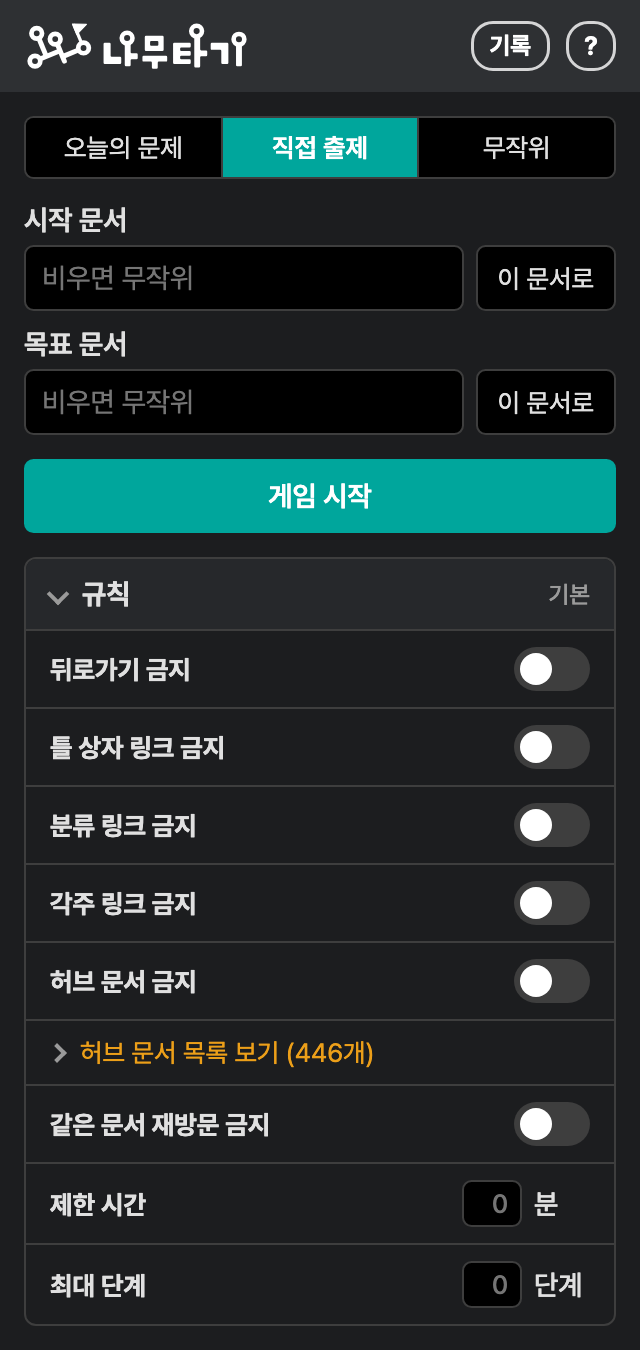
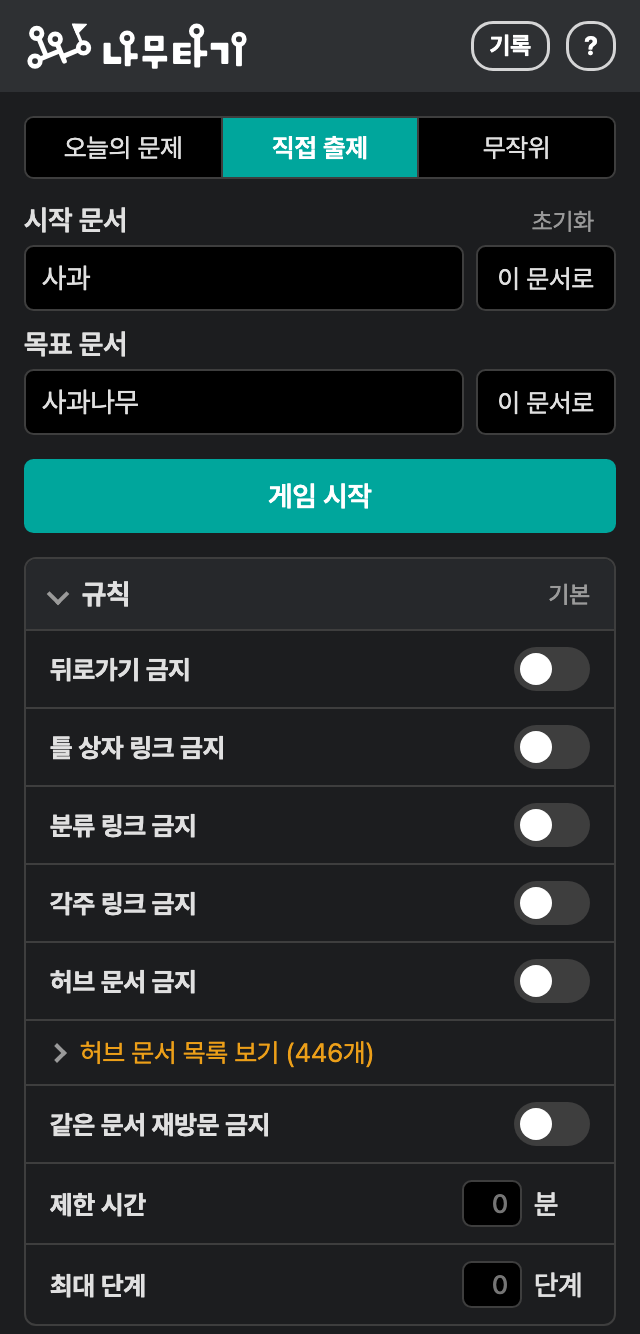
우클릭 메뉴로 시작과 목표 정하기, 직접 출제 입력 유지와 초기화
- 나무위키 문서에서 우클릭하면 "나무타기" 아래에 이 문서에서 시작, 이 문서를 목표로가 뜬다.
  링크 위에서는 링크 문서로 정한다. 고르면 그 칸을 채우고 팝업을 연다(contextMenus 권한 추가).
- 직접 출제 칸에 친 것은 판을 시작하기 전까지 남는다(chrome.storage.session, 크롬을 끄면 사라짐).
  남은 입력이 있으면 팝업이 직접 출제 탭으로 열리고, 직접 출제로 시작하면 비운다.
- "시작 문서" 줄 오른쪽 끝에 초기화 버튼, 채워진 칸을 다시 누르면 전체 선택.
- 팝업 시험 페이지에 storage.session 흉내와 start=, goal= 파라미터를 더한다.
- README의 기능, 권한 설명과 직접 출제 팝업 사진을 고친다.

diff --git a/extension/popup.js b/extension/popup.js
@@ -93,13 +93,19 @@ $('reload').onclick = () => {
 const request = msg => port ? new Promise(res => { const id = ++reqId; waiting.set(id, res); port.postMessage({ id, ...msg }); }) : Promise.resolve(null);
 
 // 시작과 목표가 같으면 바로 알리고 시작 버튼을 막는다. 넘겨주기로만 같은 경우(UN·유엔)는 목표 확인 뒤에 걸러진다.
+// 칸이 바뀔 때마다 여기를 지나므로 입력도 여기서 남긴다(draft). 팝업은 페이지를 누르기만 해도 닫혀서, 문서를 옮겨 다니며 "이 문서로"를 하나씩 누를 수 있게.
+// chrome.storage.session이라 크롬을 끄면 사라진다. 우클릭 메뉴(background.js)도 같은 draft에 넣는다. 직접 출제로 판을 시작하면 지운다(launch).
+const draft = chrome.storage.session;
 const check = () => {
   const s = $('start').value.trim(), g = $('goal').value.trim();
   const same = s !== '' && s === g;
   $('err').textContent = same ? '시작과 목표가 같아요' : '';
   $('go').disabled = same;
   $('pick').hidden = true;
+  $('clear').hidden = !s && !g;
+  draft.set({ draft: { start: $('start').value, goal: $('goal').value } });
 };
+$('clear').onclick = () => { $('start').value = $('goal').value = ''; check(); };
 
 // 지금 탭이 나무위키면 연결하고 "이 문서로"를 켠다. activeTab 덕분에 팝업을 연 탭의 주소만 읽을 수 있다.
 chrome.tabs.query({ active: true, currentWindow: true }, ([tab]) => {
@@ -143,6 +149,8 @@ for (const input of document.querySelectorAll('.row input')) {
     else if (e.key === 'Escape') { e.preventDefault(); list([]); }
   });
   input.addEventListener('blur', () => list([]));
+  // 채워진 칸을 다시 누르면 전부 고른다: 바로 치면 덮어써지고, 그냥 나가면 그대로 남는다. 이미 커서가 있는 칸을 또 누르면 평소처럼 커서만 옮긴다.
+  input.addEventListener('mousedown', e => { if (document.activeElement !== input) { e.preventDefault(); input.focus(); input.select(); } });
 }
 
 // ---- 게임 시작 ----
@@ -163,6 +171,7 @@ const ruleParams = r => ({ ...Object.fromEntries(Object.keys(FLAGS).filter(k => 
 const launch = (start, goal, extra = {}) => {
   if (start && start === goal) { $('err').textContent = '시작과 목표가 같아요'; return; } // UN과 유엔처럼 넘겨주기로 같은 경우
   const hash = new URLSearchParams({ 'ng-goal': goal, mode: 'custom', ...(extra.mode === 'daily' ? {} : ruleParams(rules())), ...extra, ...(start ? {} : { rs: '1' }) });
+  if (!extra.mode) draft.remove('draft'); // 직접 출제로 시작하면 입력을 비운다
   chrome.tabs.create({ url: (start ? `https://namu.wiki/w/${enc(start)}` : 'https://namu.wiki/random') + '#' + hash });
 };
 const busy = (btn, on, label) => { btn.disabled = on; btn.textContent = on ? '확인 중…' : label; };
@@ -308,10 +317,15 @@ const renderRecords = async () => {
 store.get(['introSeen', 'popupMode', 'diff', 'rules'], ({ introSeen, popupMode, diff, rules = {} }) => {
   for (const k of Object.keys(FLAGS)) $(k).checked = !!rules[k];
   $('tlm').value = rules.tl ? String(Math.min(99, Math.round(rules.tl / 60))) : ''; $('msn').value = rules.ms ? String(Math.min(99, rules.ms)) : ''; noteRules();
-  setMode('daily'); // 처음 열면 늘 오늘의 문제
+  setMode('daily'); // 처음 열면 오늘의 문제. 남은 입력(draft)이 있으면 아래에서 직접 출제로 바꾼다
   const radio = document.querySelector(`input[name="diff"][value="${diff}"]`);
   if (radio) radio.checked = true;
   noteDiff();
   if (!introSeen) setIntro(false);
   show(introSeen ? 'game' : 'intro');
+  draft.get('draft', ({ draft: d }) => {
+    if (!d?.start && !d?.goal) return;
+    $('start').value = d.start || ''; $('goal').value = d.goal || '';
+    setMode('custom'); check();
+  });
 });

diff --git a/e2e/popup-harness/stub.js b/e2e/popup-harness/stub.js
@@ -1,11 +1,13 @@
 // 팝업을 확장 밖(localhost)에서 열어 볼 때 쓰는 chrome API 흉내. build.py가 popup.html의 popup.js 앞에 끼워 넣는다.
 // 쿼리: theme=dark|light(연결된 나무위키 탭의 테마), dead=1(탭 연결이 끊긴 상태, 탭 새로고침 버튼을 누르면 복구). intro=1(설명을 아직 안 본 상태: 팝업 첫 설명 화면).
-// 시험 중에 window.__store(저장소), window.__created(chrome.tabs.create로 열린 주소들), window.__reloaded를 읽거나 고칠 수 있다.
+// start=, goal=(남은 직접 출제 입력, 우클릭 메뉴로 넣은 것처럼).
+// 시험 중에 window.__store(저장소), window.__session(chrome.storage.session), window.__created(chrome.tabs.create로 열린 주소들), window.__reloaded를 읽거나 고칠 수 있다.
   const P = new URLSearchParams(location.search);
+  window.__session = P.get('start') || P.get('goal') ? { draft: { start: P.get('start') || '', goal: P.get('goal') || '' } } : {}; // 남은 직접 출제 입력(우클릭 메뉴가 넣은 것)
   window.__created = []; window.__store = { introSeen: !P.get('intro'), popupMode: P.get('mode') || 'custom', records: [{"at": 1792874148948, "mode": "custom", "diff": null, "start": "사과", "goal": "사과(동음이의어)", "win": true, "steps": 3, "ms": 22540, "path": ["사과", "사과나무", "사과", "사과(동음이의어)"], "reason": null}, {"at": 1792874088948.0, "mode": "custom", "diff": null, "start": "사과", "goal": "사과(동음이의어)", "win": true, "steps": 1, "ms": 43230, "path": ["사과", "사과(동음이의어)"], "reason": null}, {"at": 1792874028948.0, "mode": "random", "diff": "normal", "start": "Soony 6", "goal": "바나나", "win": false, "steps": 0, "ms": 9000, "path": ["Soony 6"], "reason": "그만둠"}, {"at": 1792873968948.0, "mode": "random", "diff": "easy", "start": "윌라(래퍼)", "goal": "미국", "win": true, "steps": 2, "ms": 31020, "path": ["윌라(래퍼)", "대한민국", "미국"], "reason": null}] };
-  const area = { get: (k, cb) => { const keys = Array.isArray(k) ? k : [k]; const o = Object.fromEntries(keys.map(x => [x, window.__store[x]])); if (cb) cb(o); return Promise.resolve(o); },
-    set: o => { Object.assign(window.__store, o); return Promise.resolve(); }, remove: ks => { for (const k of [].concat(ks)) delete window.__store[k]; return Promise.resolve(); } };
-  window.chrome = { runtime: { getManifest: () => ({ version: '__VERSION__' }) }, storage: { local: area }, tabs: {
+  const area = box => ({ get: (k, cb) => { const keys = Array.isArray(k) ? k : [k]; const o = Object.fromEntries(keys.map(x => [x, box()[x]])); if (cb) cb(o); return Promise.resolve(o); },
+    set: o => { Object.assign(box(), o); return Promise.resolve(); }, remove: ks => { for (const k of [].concat(ks)) delete box()[k]; return Promise.resolve(); } });
+  window.chrome = { runtime: { getManifest: () => ({ version: '__VERSION__' }) }, storage: { local: area(() => window.__store), session: area(() => window.__session) }, tabs: {
     query: (q, cb) => cb([{ id: 7, url: 'https://namu.wiki/w/%EC%82%AC%EA%B3%BC' }]),
     connect: () => { const ls = []; setTimeout(() => ls.forEach(f => f({ theme: P.get('theme') || 'dark' })), 0);
       return { onMessage: { addListener: f => ls.push(f) }, onDisconnect: { addListener: f => { if (P.get('dead') && !window.__reloaded) setTimeout(f, 0); } }, postMessage: m => setTimeout(() => ls.forEach(f => f({ id: m.id, data: m.type === 'probe' ? { ok: true, doc: m.name } : [] })), 100) }; },

diff --git a/extension/background.js b/extension/background.js
@@ -1,7 +1,28 @@
+// 나무위키에서 우클릭하면 "나무타기" 아래에 시작/목표 메뉴가 뜬다(메뉴가 둘 이상이면 크롬이 확장 이름 아래로 묶는다). 링크 위에서는 그 링크 문서로.
+// 고른 문서는 팝업 직접 출제 칸의 입력(draft, chrome.storage.session: 크롬을 끄면 사라진다)에 넣고 팝업을 연다.
+// 게임 중에는 content.js가 우클릭을 막아서 메뉴가 안 뜬다.
+const DOC = 'https://namu.wiki/w/*';
+const MENUS = { 'start:page': '이 문서에서 시작', 'goal:page': '이 문서를 목표로', 'start:link': '링크 문서에서 시작', 'goal:link': '링크 문서를 목표로' };
+
 // 설치하면 환영 페이지(welcome.html)를 새 탭으로 연다.
 // 크롬은 확장을 설치할 때 이미 열려 있던 나무위키 탭에 content script를 넣지 않는다(그 탭을 새로고침해야 붙는다).
 // 그래서 첫 안내를 나무위키 탭에 의존하면 안 보일 수 있어서, 확장 자신의 페이지로 반드시 보여 준다.
 // 확장 새로고침(update)이나 크롬 업데이트에서는 열지 않는다. tabs.create는 별도 권한이 필요 없다.
+// 우클릭 메뉴는 설치와 업데이트 때마다 다시 만든다(크롬이 기억하므로 서비스 워커가 깰 때마다 만들 필요는 없다).
 chrome.runtime.onInstalled.addListener(({ reason }) => {
   if (reason === 'install') chrome.tabs.create({ url: 'welcome.html' });
+  chrome.contextMenus.removeAll(() => {
+    for (const [id, title] of Object.entries(MENUS)) {
+      const link = id.endsWith(':link');
+      chrome.contextMenus.create({ id, title, contexts: [link ? 'link' : 'page'], documentUrlPatterns: [link ? 'https://namu.wiki/*' : DOC], ...(link ? { targetUrlPatterns: [DOC] } : {}) });
+    }
+  });
+});
+
+chrome.contextMenus.onClicked.addListener(async ({ menuItemId, linkUrl, pageUrl }) => {
+  const [field, where] = menuItemId.split(':');
+  const doc = decodeURIComponent(new URL(where === 'link' ? linkUrl : pageUrl).pathname.slice(3));
+  const { draft = {} } = await chrome.storage.session.get('draft');
+  await chrome.storage.session.set({ draft: { ...draft, [field]: doc } });
+  chrome.action.openPopup().catch(() => {}); // ponytail: 크롬 127 미만은 팝업이 안 열린다. 입력은 남아 있어 다음에 열면 채워져 있다
 });

diff --git a/extension/popup.html b/extension/popup.html
@@ -22,6 +22,10 @@
   main { padding: 12px; }
   label { display: block; margin: 8px 0 4px; font-weight: 600; }
   .row { display: flex; gap: 6px; }
+  .head { display: flex; align-items: baseline; justify-content: space-between; margin: 8px 0 4px; }   /* 칸 제목 줄의 오른쪽 끝 버튼(초기화). 여백은 label이 아니라 이 줄이 가져야 위 탭과 겹쳐(12px) 다른 칸과 같아진다 */
+  .head label { margin: 0; }
+  .head button { margin-right: 11px; padding: 0; border: 0;   /* 오른쪽 끝을 아래 "이 문서로" 글자 끝(버튼 안쪽 여백 10 + 테두리 1)에 맞춘다 */ background: none; font: inherit; font-size: 12px; color: var(--muted); cursor: pointer; }
+  .head button:hover { color: var(--text); }
   input:not([type="radio"]):not([type="checkbox"]) { flex: 1; min-width: 0; padding: 7px 8px; font: inherit; color: var(--text); background: var(--btn);
           border: 1px solid var(--border); border-radius: .3rem; outline-color: var(--primary); }
   .btn { font: inherit; font-size: 13px; padding: 6px 10px; color: var(--text); background: var(--btn); border: 1px solid var(--border);
@@ -137,7 +141,7 @@
 <main id="game" hidden>
   <nav class="tabs"><button type="button" data-mode="daily">오늘의 문제</button><button type="button" data-mode="custom">직접 출제</button><button type="button" data-mode="random">무작위</button></nav>
   <form id="f" autocomplete="off">
-    <label for="start">시작 문서</label>
+    <div class="head"><label for="start">시작 문서</label><button type="button" id="clear" hidden>초기화</button></div>
     <div class="row"><input id="start" name="start" placeholder="비우면 무작위"><button type="button" class="btn" data-fill="start">이 문서로</button></div>
     <ul class="sug" hidden></ul>
     <label for="goal">목표 문서</label>

diff --git a/CLAUDE.md b/CLAUDE.md
@@ -32,7 +32,7 @@ git 저장소: GitHub `L4N14KE4/namu-tagi`(비공개, 2026-10-29에 namu-game에
 - 확장은 격리된 세계에서 돈다. 페이지에서 `chrome.storage`는 못 읽는다. 대신 `sessionStorage`의 `ng_state`와 열린 Shadow DOM(`document.getElementById('ng-host').shadowRoot`)을 읽는다. 링크는 `a.click()`으로 누르면 클릭 가로채기가 그대로 동작한다.
 - 게임이 시작된 뒤(카운트다운 약 4초 후 `status === 'playing'`)에 눌러야 한다. 폭죽은 `.fx` 캔버스의 픽셀로 확인한다.
 - **환영 페이지의 설치 시 자동 열기(`onInstalled`)는 재설치해야 시험된다.** 확장을 지웠다 다시 올리면 `chrome.storage`의 기록이 모두 사라지므로 사용자의 Default 프로필에서는 하지 않는다. 대신 `welcome.html` 화면은 `popup-harness`가 만드는 `welcome-test.html`(localhost)로, 자동 열기는 새 크롬 프로필에서 압축해제 로드해 사용자에게 확인을 부탁한다. 확장 새로고침은 reason이 `update`라 안 열린다.
-- **팝업은 localhost 시험 페이지로 확인한다.** `python3 e2e/popup-harness/build.py <빈 폴더>`로 만들고 그 폴더에서 `python3 -m http.server 8765`를 띄운 뒤 `http://localhost:8765/popup-test.html?theme=dark` 를 연다(`dead=1`은 탭 연결 끊김 화면). `window.__store`로 저장소를 고쳐 기록 화면 등을 시험한다.
+- **팝업은 localhost 시험 페이지로 확인한다.** `python3 e2e/popup-harness/build.py <빈 폴더>`로 만들고 그 폴더에서 `python3 -m http.server 8765`를 띄운 뒤 `http://localhost:8765/popup-test.html?theme=dark` 를 연다(`dead=1`은 탭 연결 끊김 화면, `start=`·`goal=`은 남은 직접 출제 입력). `window.__store`(local)와 `window.__session`(session)으로 저장소를 고쳐 기록 화면 등을 시험한다. 내장 브라우저에서 `resize_window`로 좁게 흉내 내면 좌표 클릭이 어긋나니 흉내 없이 ref로 누른다. 우클릭 메뉴는 도구로 못 여니 사용자에게 확인을 부탁한다.
 - **크롬 테스트는 사용자의 실제 기록(chrome.storage의 records)에 판을 남긴다.** 끝까지 한 판은 기록이 되므로 오늘의 문제는 `day=99`처럼 실제 날짜와 안 겹치는 값을 쓰고, 남긴 기록이 있으면 사용자에게 알린다. 0.32.0부터 판을 시작하는 순간 "끝내지 않음" 기록이 남으므로 `sessionStorage.clear()`로도 기록을 막을 수 없다(카운트다운이 끝나기 전에 비우면 안 남는다).
 - 끝나면 테스트 탭은 닫고 `sessionStorage`를 비운다.
 - Claude in Chrome은 활성 탭을 바꾸지 못해 `document.hidden`이 안 바뀐다. 떠남(leave) 경로는 example.com으로 갔다가 `history.back()`으로 시험한다. 진짜 포커스 잃기(메뉴의 찾기 창)와 개발자 도구 열기는 도구로 못 하니 사용자에게 확인을 부탁한다. 숨김 모양은 `data-ng-blur`/`data-blur` 속성을 직접 붙여 본다.
@@ -42,13 +42,13 @@ git 저장소: GitHub `L4N14KE4/namu-tagi`(비공개, 2026-10-29에 namu-game에
 
 | 파일 | 역할 |
 | --- | --- |
-| `manifest.json` | 권한은 activeTab, storage 뿐. 콘텐츠 스크립트: words.js, hubs.js, vendor/confetti.min.js, content.js, content.css. `devtools_page`: devtools.html |
-| `background.js` | 서비스 워커. `onInstalled`에서 reason이 `install`일 때만 `welcome.html`을 새 탭으로 연다(권한 추가 없음) |
+| `manifest.json` | 권한은 activeTab, contextMenus, storage 뿐. 콘텐츠 스크립트: words.js, hubs.js, vendor/confetti.min.js, content.js, content.css. `devtools_page`: devtools.html |
+| `background.js` | 서비스 워커. `onInstalled`에서 reason이 `install`일 때만 `welcome.html`을 새 탭으로 연다. 우클릭 메뉴(이 문서에서 시작/이 문서를 목표로, 링크 위에서는 링크 문서로)를 만들고, 누르면 `chrome.storage.session`의 `draft`에 넣고 `action.openPopup()` |
 | `welcome.html`, `welcome.js` | 설치 환영 페이지(전체 화면, 나무위키 문서 모양(사과 문서에서 잰 값: 본문 15px, 제목 36px, 소제목 27px, 칸 5px 10px 등): 위 막대에 `wordmark.svg`, 제목 밑 "최근 버전: v…"(manifest 버전을 읽음), 목차 상자(details), 링크색 번호 소제목, 테두리 표, 점 목록, 각주 위 가로줄. 버튼 둘: 나무위키로 가기(넓게) / 닫기(작게)). 두 버튼이 `introSeen`을 저장해 나무위키 안 안내 창·팝업 첫 설명이 또 안 뜨게 한다. 탭 X로 닫으면 저장 안 돼 팝업의 짧은 첫 설명이 대신 뜬다(보험) |
 | `devtools.html`, `devtools.js` | 개발자 도구가 열려 있는 동안 1초마다 `inspectedWindow.eval('window.ngDevtools?.()', {useContentScriptContext})`로 게임 탭에 알린다(게임 중이면 진 판) |
 | `content.js` | 게임 전부(약 900줄). 판정, 이동 확정, 진행 막대(HUD, Shadow DOM), 카운트다운, 결과 카드, 공유, 기록 저장, 팝업 연결(자동완성·목표 확인) |
 | `content.css` | 게임 중 탭(`html[data-ng]`)의 우회로 숨김 |
-| `popup.html`, `popup.js` | 팝업: 오늘의 문제/직접 출제/무작위 탭, 규칙, 기록(규칙별 보기), 설명(?). 머리글 제목은 `wordmark.svg`(흰색 가로 로고) |
+| `popup.html`, `popup.js` | 팝업: 오늘의 문제/직접 출제/무작위 탭, 규칙, 기록(규칙별 보기), 설명(?). 직접 출제 입력은 시작 전까지 `draft`(session)에 남고(있으면 직접 출제 탭으로 열림), 직접 출제로 시작하면 비운다. 초기화 버튼, 다시 누르면 전체 선택. 머리글 제목은 `wordmark.svg`(흰색 가로 로고) |
 | `icons/`, `wordmark.svg` | 0.34.0에서 넣은 확장 아이콘 PNG 4종(`design/logo-icon.psd`를 줄임)과 팝업 제목 로고(`design/wordmark-white.svg` 복사본). 로고를 고치면 `design/`에서 다시 만들어 두 곳에 복사 |
 | `intro.js` | 팝업의 설명 글과 모양. 전체(`html`, ? 버튼)와 처음 여는 팝업의 짧은 설명(`short`, 확인이 스크롤 없이 보임) 둘. 나무위키 안 설명 창(모달)은 0.1.0 직전에 없앴다 |
 | `words.js`, `hubs.js` | 자동 생성 목록(무작위 4068개이고 그중 보통 889개가 오늘의 문제 풀, 허브 446개). 직접 고치지 않는다 |
@@ -56,7 +56,7 @@ git 저장소: GitHub `L4N14KE4/namu-tagi`(비공개, 2026-10-29에 namu-game에
 | `../scripts/` | `build-words.mjs`, `build-hubs.mjs`, `suggest-candidates.mjs`(위키백과 조회수로 후보 제안), `suggest-candidates-wikidata.mjs`(Wikidata 링크된 언어판 수로 후보 제안; 둘 다 풀은 안 건드림)와 후보 목록·보고서. 나무위키를 요청 사이 1초씩 쉬며 조사한다 |
 | `../e2e/` | puppeteer 테스트와 `popup-harness/`(팝업 시험 도구) |
 | `../demo/` | 폭죽, 카운트다운, 아이콘 라이브러리 비교(`icons.html`), 로고 후보(`logo.html`: 나무위키 로고를 재서 다시 그린 변형 8가지) 데모(확장 아님) |
-| `../design/` | 고른 로고(2번 목표 깃발)의 PSD·SVG·PNG. `logo-icon`은 초록 원 아이콘 1024px, `logo-mark`는 로고만 투명 배경, `wordmark-*`는 마크 + "나무타기" 글자(밝은/어두운 배경용 SVG·PNG, `wordmark.psd`는 글자·고리·마크 14레이어)로 제목에 쓴다. 글자 나·무는 나무위키 로고에서 가장자리를 재서 그대로 다시 그렸고(획 굵기 차이: ㄴ 28, 줄기 23.3, ㅁ 21, ㅋ 가운데 줄 18.6, 둥근 모서리 볼록 4.75·오목 4.2), 타·기는 같은 규칙으로 새로 짰다(고리 높이도 나무위키처럼 낮음·높음·중간). PSD는 부분마다 레이어(래스터). 사용자가 직접 다듬었다(`logo-mark.psd`는 깃발을 왼쪽으로 34px, `logo-icon.psd`는 오른쪽 14px·아래 6px 옮겨서 고리 지름의 약 15% 어긋나 있고 괜찮다고 봄). 아직 manifest `icons`에 안 넣었다. `wordmark.mjs`는 글자 모양·간격과 마크 위치의 원본(마크 PSD의 깃발 이동량이 안에 상수로 들어 있다. `node design/wordmark.mjs demo/logo.html <폴더>`. `wordmark-white.svg`는 팝업용 흰색 한 색). 아이콘과 팝업 제목은 0.34.0에서 확장에 넣었다 |
+| `../design/` | 고른 로고(2번 목표 깃발)의 PSD·SVG·PNG. `logo-icon`은 초록 원 아이콘 1024px, `logo-mark`는 로고만 투명 배경, `wordmark-*`는 마크 + "나무타기" 글자(밝은/어두운 배경용 SVG·PNG, `wordmark.psd`는 글자·고리·마크 14레이어)로 제목에 쓴다. 글자 나·무는 나무위키 로고에서 가장자리를 재서 그대로 다시 그렸고(획 굵기 차이: ㄴ 28, 줄기 23.3, ㅁ 21, ㅋ 가운데 줄 18.6, 둥근 모서리 볼록 4.75·오목 4.2), 타·기는 같은 규칙으로 새로 짰다(고리 높이도 나무위키처럼 낮음·높음·중간). PSD는 부분마다 레이어(래스터). 사용자가 직접 다듬었다(`logo-mark.psd`는 깃발을 왼쪽으로 34px, `logo-icon.psd`는 오른쪽 14px·아래 6px 옮겨서 고리 지름의 약 15% 어긋나 있고 괜찮다고 봄). 2026-10-29에 `logo-icon`·`logo-mark`의 PNG는 PSD 합성 그대로, SVG는 깃발 `<polygon>`을 `translate`로 감싸 PSD와 맞췄다(헤드리스 크롬으로 그려 PSD와 비교해 차이 없음). PSD를 또 고치면 이 넷을 다시 맞추고 `extension/icons/`도 `logo-icon.png`를 줄여 다시 만든다. `wordmark.mjs`는 글자 모양·간격과 마크 위치의 원본(마크 PSD의 깃발 이동량이 안에 상수로 들어 있다. `node design/wordmark.mjs demo/logo.html <폴더>`. `wordmark-white.svg`는 팝업용 흰색 한 색). 아이콘과 팝업 제목은 0.34.0에서 확장에 넣었다 |
 
 `content.js` 구역 순서: 공통 도구 → 팝업 연결(onConnect: suggest/probe) → 게임 상태와 해시 파싱 → 화면 정리(hideChrome) → 판정(verdict, inTemplateBox, inFoldBox, inNoticeBox, inFootnote) → 입력 가로채기 → 이동 확정(check) → 무작위 목표 → 목표 미리보기 → 폭죽 → 기록(record) → 카운트다운, ready/begin → HUD(mount/render) → 공유(shareText) → 도전장 수락(invite).
 
@@ -72,7 +72,7 @@ git 저장소: GitHub `L4N14KE4/namu-tagi`(비공개, 2026-10-29에 namu-game에
 - 폭죽(화면 아래 가운데에서 위로 한 번): 내 기록 경신, 도전장 승리, 오늘의 문제 풀이 때. 첫 도착이나 패배에는 없다.
 - 도전장: 공유 링크에 내 이름·기록·경로·단계별 시간·규칙이 실린다. 받는 쪽은 수락 창에서 어디서 어디로, 상대 기록, 규칙을 보고 도전하기를 눌러야 시작한다. 도전 중에는 새 문제가 막힌다. 결과 카드의 상대 경로는 이겼을 때만 보이고, 졌으면 흐리게 가려 눌러도 안 풀리며 "이기면 볼 수 있어요"를 띄운다(상대의 단계와 시간은 항상 보임, 0.33.9. 0.33.8의 "바로 보임"은 사용자 뜻이 아니어서 고쳤다). 도전장 판의 폭죽은 이겼을 때만(내 기록 경신만으로는 안 터진다).
 - 게임 중 UI: 진행 막대, 목표 설명 카드(첫 이동 뒤 자동으로 접힘, ⓘ로 다시), 한 줄 경로(폭 채우기, 누르면 전체 목록, ≡ 버튼으로 켜고 끔), 다시하기(3초 안에 한 번 더 눌러야 함, 기록하지 않음), 그만두기(진 판으로 기록), 자리 비움 창(제한 시간 없는 판에서 5분 입력 없으면 "아직 하고 계세요?" 이어하기·다시하기·닫기. 창이 뜨는 시각 = 마지막 입력 + 5분에 시계를 멈추고(`state.pausedAt`), 이어하기가 `startedAt`을 멈춘 만큼 뒤로 민다. 걸린 시간은 항상 `elapsed()`로 잰다. 닫기는 그만두기와 같다). 탭이나 페이지를 떠났다 돌아와도 시계는 멈추지 않는다(`awayAt`). 30초 넘게 떠났으면 진 판, 짧게 떠난 것은 한 번만 경고 창("떠났어요, 한 번 더 떠나면 실격", `aways`·`warn`, `MAX_AWAY`=1)이고 두 번째에 진 판(0.32.9에서 1단계로 줄였다: 3→2→1). 탭을 떠난 것(visibilitychange, pagehide)뿐 아니라 포커스가 나간 것(window blur)도 같은 `leave()`/`back()`으로 센다. 제한 시간 판도 같고 새로고침은 세지 않는다(0.32.0에서 이어하기 창을 없앴다). 포커스가 페이지 밖으로 가면 `#app`을 숨기고 떠남으로 센다(메뉴 찾기, 옆 창 조사 방지). 뒤로가기 금지 판의 뒤로가기는 실격 대신 되돌린다(popstate를 나무위키보다 먼저 받아 멈추고 `history.forward()`, 전체 로드면 begin이 앞으로 보냄). 단 주소의 문서가 지금 보는 문서와 같은 뒤로가기(목차·각주로 쌓인 해시 기록)는 통과시킨다.
-- 저장소 키(`chrome.storage.local`): introSeen, diff, rules, records(최근 200판, 단계별 시간 `times` 포함, 0.32.0부터 판마다 `id`. 시작할 때 "끝내지 않음"으로 넣고 끝나면 같은 id를 결과로 바꾼다. 다시하기·새 문제는 이동 전이면 지우고 이동 뒤면 "다시 시작함"), nick, autoNick, used, previews, hudPath.
+- 저장소 키(`chrome.storage.session`): draft(직접 출제 칸의 시작·목표, 크롬을 끄면 사라짐). (`chrome.storage.local`): introSeen, diff, rules, records(최근 200판, 단계별 시간 `times` 포함, 0.32.0부터 판마다 `id`. 시작할 때 "끝내지 않음"으로 넣고 끝나면 같은 id를 결과로 바꾼다. 다시하기·새 문제는 이동 전이면 지우고 이동 뒤면 "다시 시작함"), nick, autoNick, used, previews, hudPath.
 - 오늘의 문제: 한국 시간, 2026-10-25를 1회차로 센다. 회차 번호가 시드이고 `words.js`의 보통 구간 문서 889개(허브 목록과 무관. 쉬움 구간으로는 너무 싱겁게 풀렸다)에서 그날 문제를 계산한다(서버 없음, 별도 `daily.js`는 0.32.7에서 없앴다). 목록을 정렬해 고정 씨앗으로 섞은 순서 Q를 만들고, 목표는 Q를 바퀴(N일)마다 다시 섞은 순서대로 하루 하나씩, 시작은 Q에서 목표 위치로부터 s칸 뒤(s는 바퀴마다 1, 2, 3…). 그래서 같은 쌍도 뒤집힌 쌍도 ceil(N/2)-1바퀴 동안 안 겹친다(N=889면 약 1081년, `node scripts/check-daily.mjs`로 확인). `words.js`를 다시 만들어 보통 구간이 바뀌면(문서를 더하거나 경계를 넘나드는 문서가 있으면) 그 뒤 모든 날의 문제가 바뀐다. 사용자가 "나중에 더 넣어도 큰 상관 없다"고 했고(0.32.6), 무작위 목록과 하나로 합치자고 골랐다(0.32.7: 합집합으로 굳히는 안은 안 썼다).
 
 ## 나무위키 사정 (실측으로 알게 된 것)

diff --git a/README.md b/README.md
@@ -22,6 +22,8 @@
 - 직접 출제: 시작 문서와 목표 문서를 직접 정하기, 비워 두면 무작위로 정하기
 - 무작위: 난이도(쉬움, 보통, 어려움, 랜덤)만 고르면 시작과 목표를 정하기
 - 나무위키 검색창과 같은 문서 이름 추천, 동음이의어 문서는 뜻을 골라서 시작
+- 나무위키 문서나 링크에서 우클릭해 시작 문서, 목표 문서로 정하기
+- 입력한 시작 문서와 목표 문서는 게임을 시작할 때까지 유지
 
 **게임 중**
 - 카운트다운이 끝나면 시간 측정 시작
@@ -41,7 +43,7 @@
 <table>
   <tr>
     <td valign="top"><img src="docs/screenshots/popup-today.png" width="240" alt="팝업의 오늘의 문제 탭"></td>
-    <td valign="top"><img src="docs/screenshots/popup-custom.png" width="240" alt="팝업의 직접 출제 탭과 규칙 옵션"></td>
+    <td valign="top"><img src="docs/screenshots/popup-custom.png" width="240" alt="팝업의 직접 출제 탭. 시작과 목표 문서를 입력했고 초기화 버튼과 규칙 옵션이 보인다"></td>
   </tr>
 </table>
 
@@ -122,7 +124,7 @@ mkdir -p dist && git archive --format=zip -o dist/namu-tagi-v$(node -p "require(
 - 사용자 정보나 이용 기록을 수집하거나 외부 서버로 보내지 않습니다.
 - 나무위키(namu.wiki) 페이지에서만 동작하고, 네트워크 요청은 나무위키로만 보냅니다.
 - 도전장 링크에는 닉네임, 기록, 경로가 담깁니다. 링크는 직접 공유할 때만 다른 사람에게 전해집니다.
-- 권한은 `activeTab`(팝업을 연 탭이 나무위키인지 확인하고 문서 이름을 추천)과 `storage`(기록 저장) 두 가지뿐입니다.
+- 권한은 `activeTab`(팝업을 연 탭이 나무위키인지 확인하고 문서 이름을 추천), `contextMenus`(나무위키 우클릭 메뉴), `storage`(기록 저장) 세 가지뿐입니다.
 
 ## 면책사항
 
